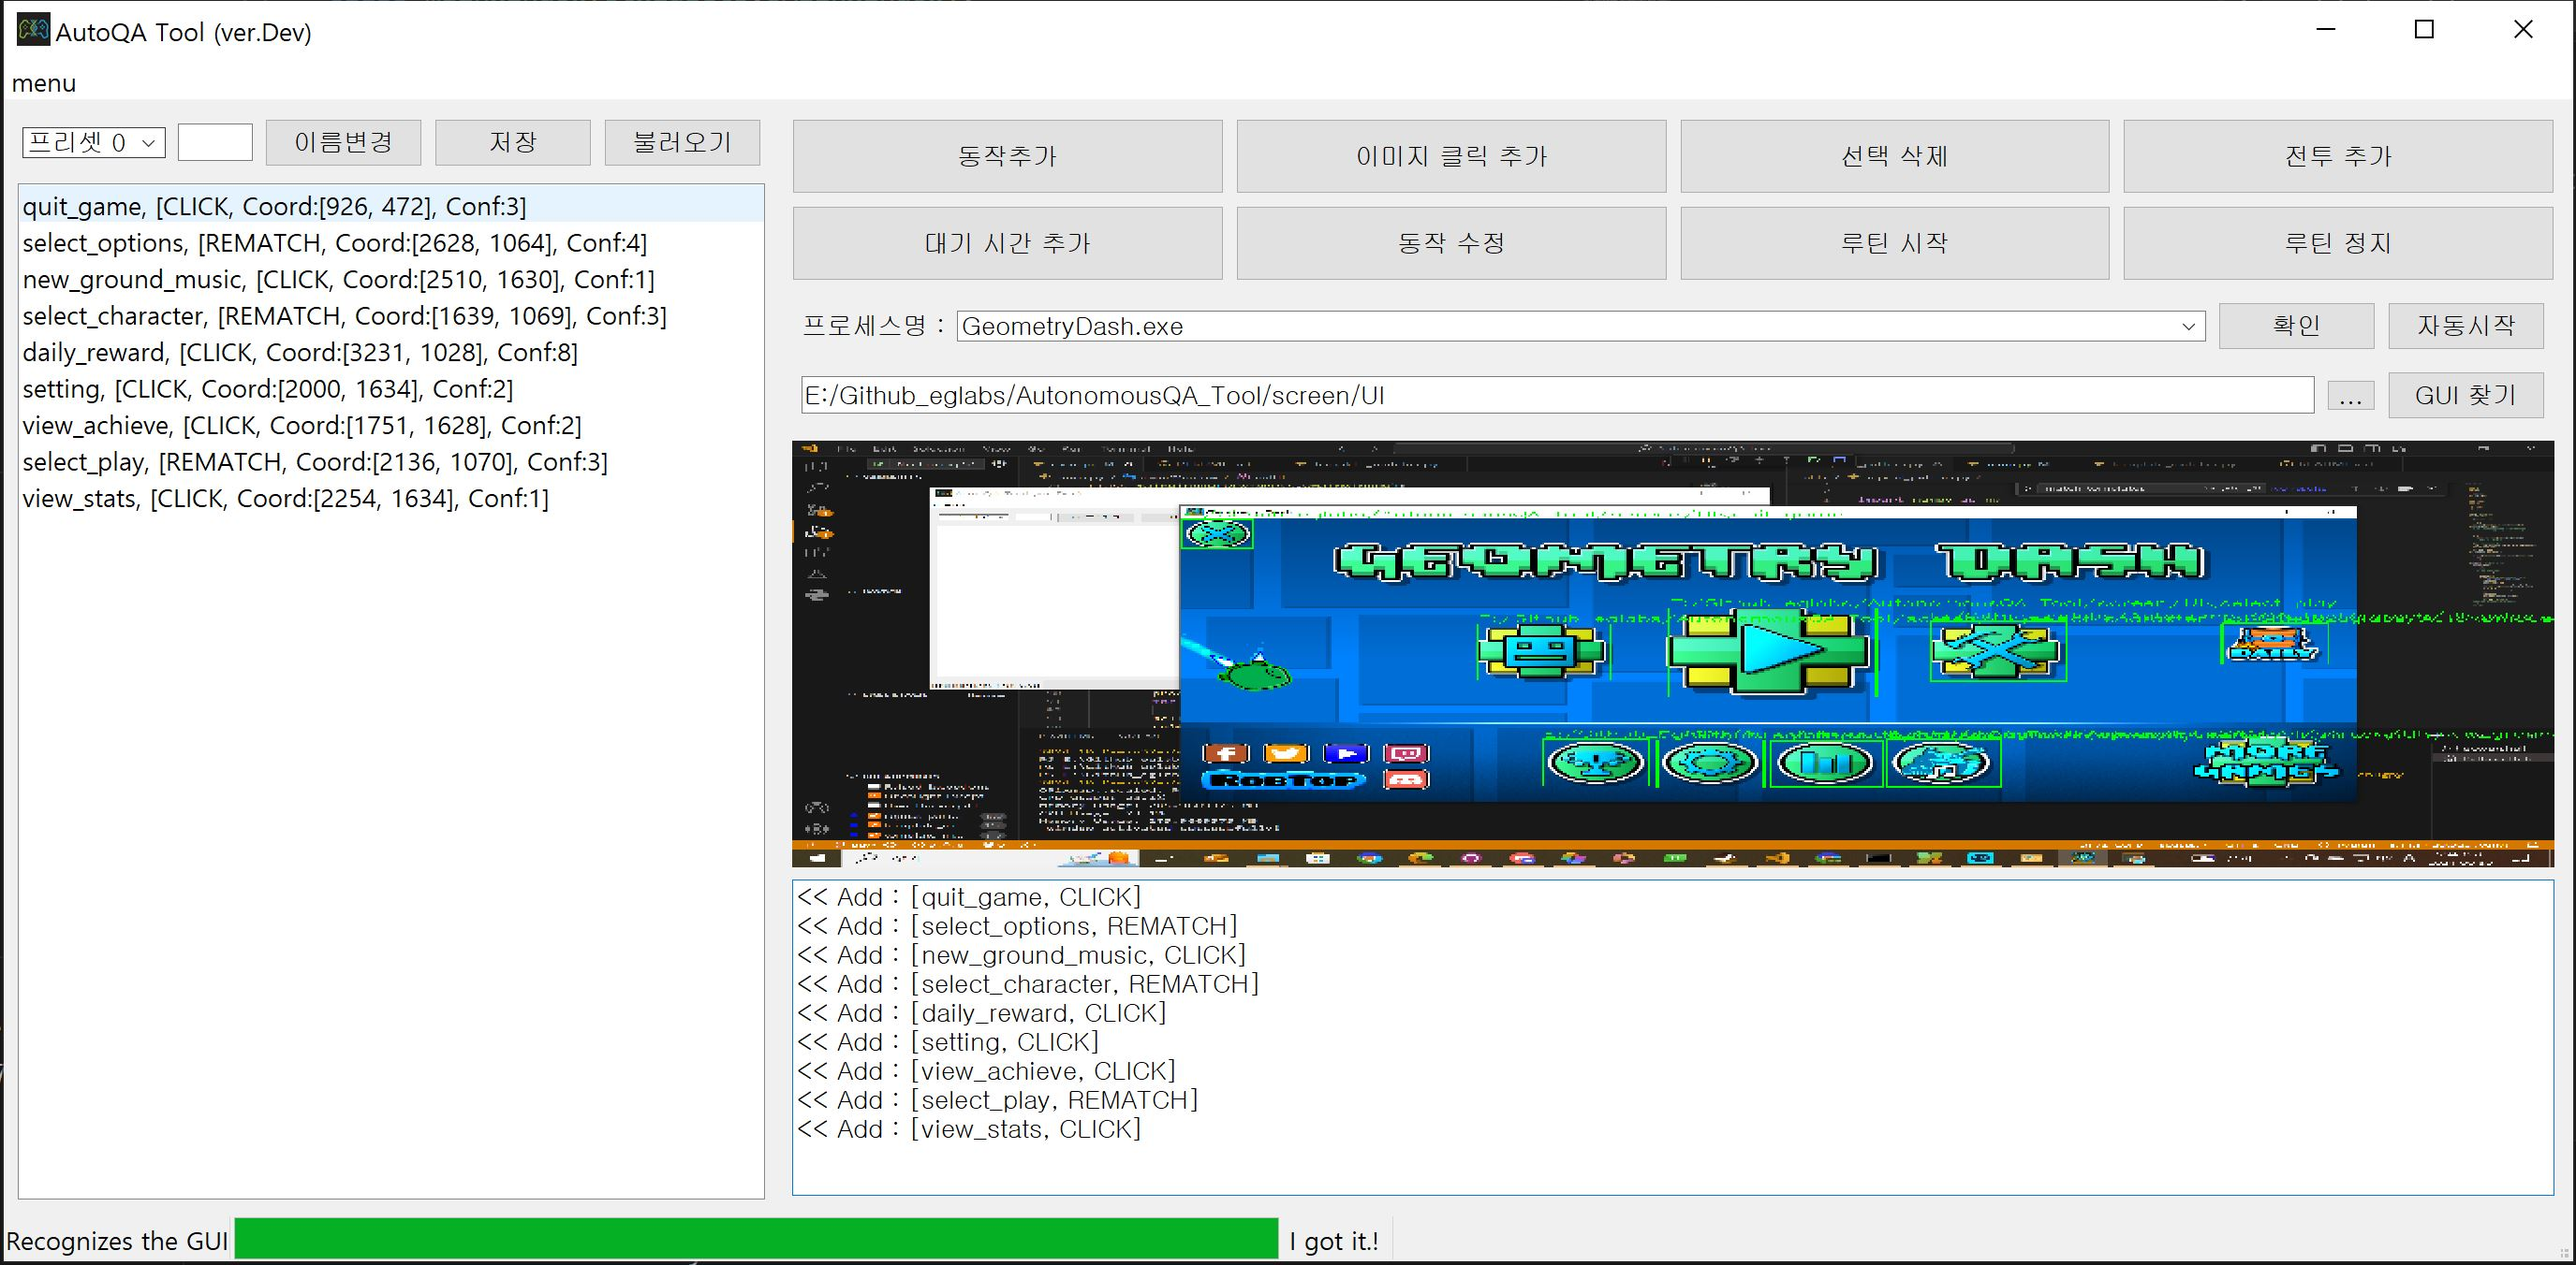
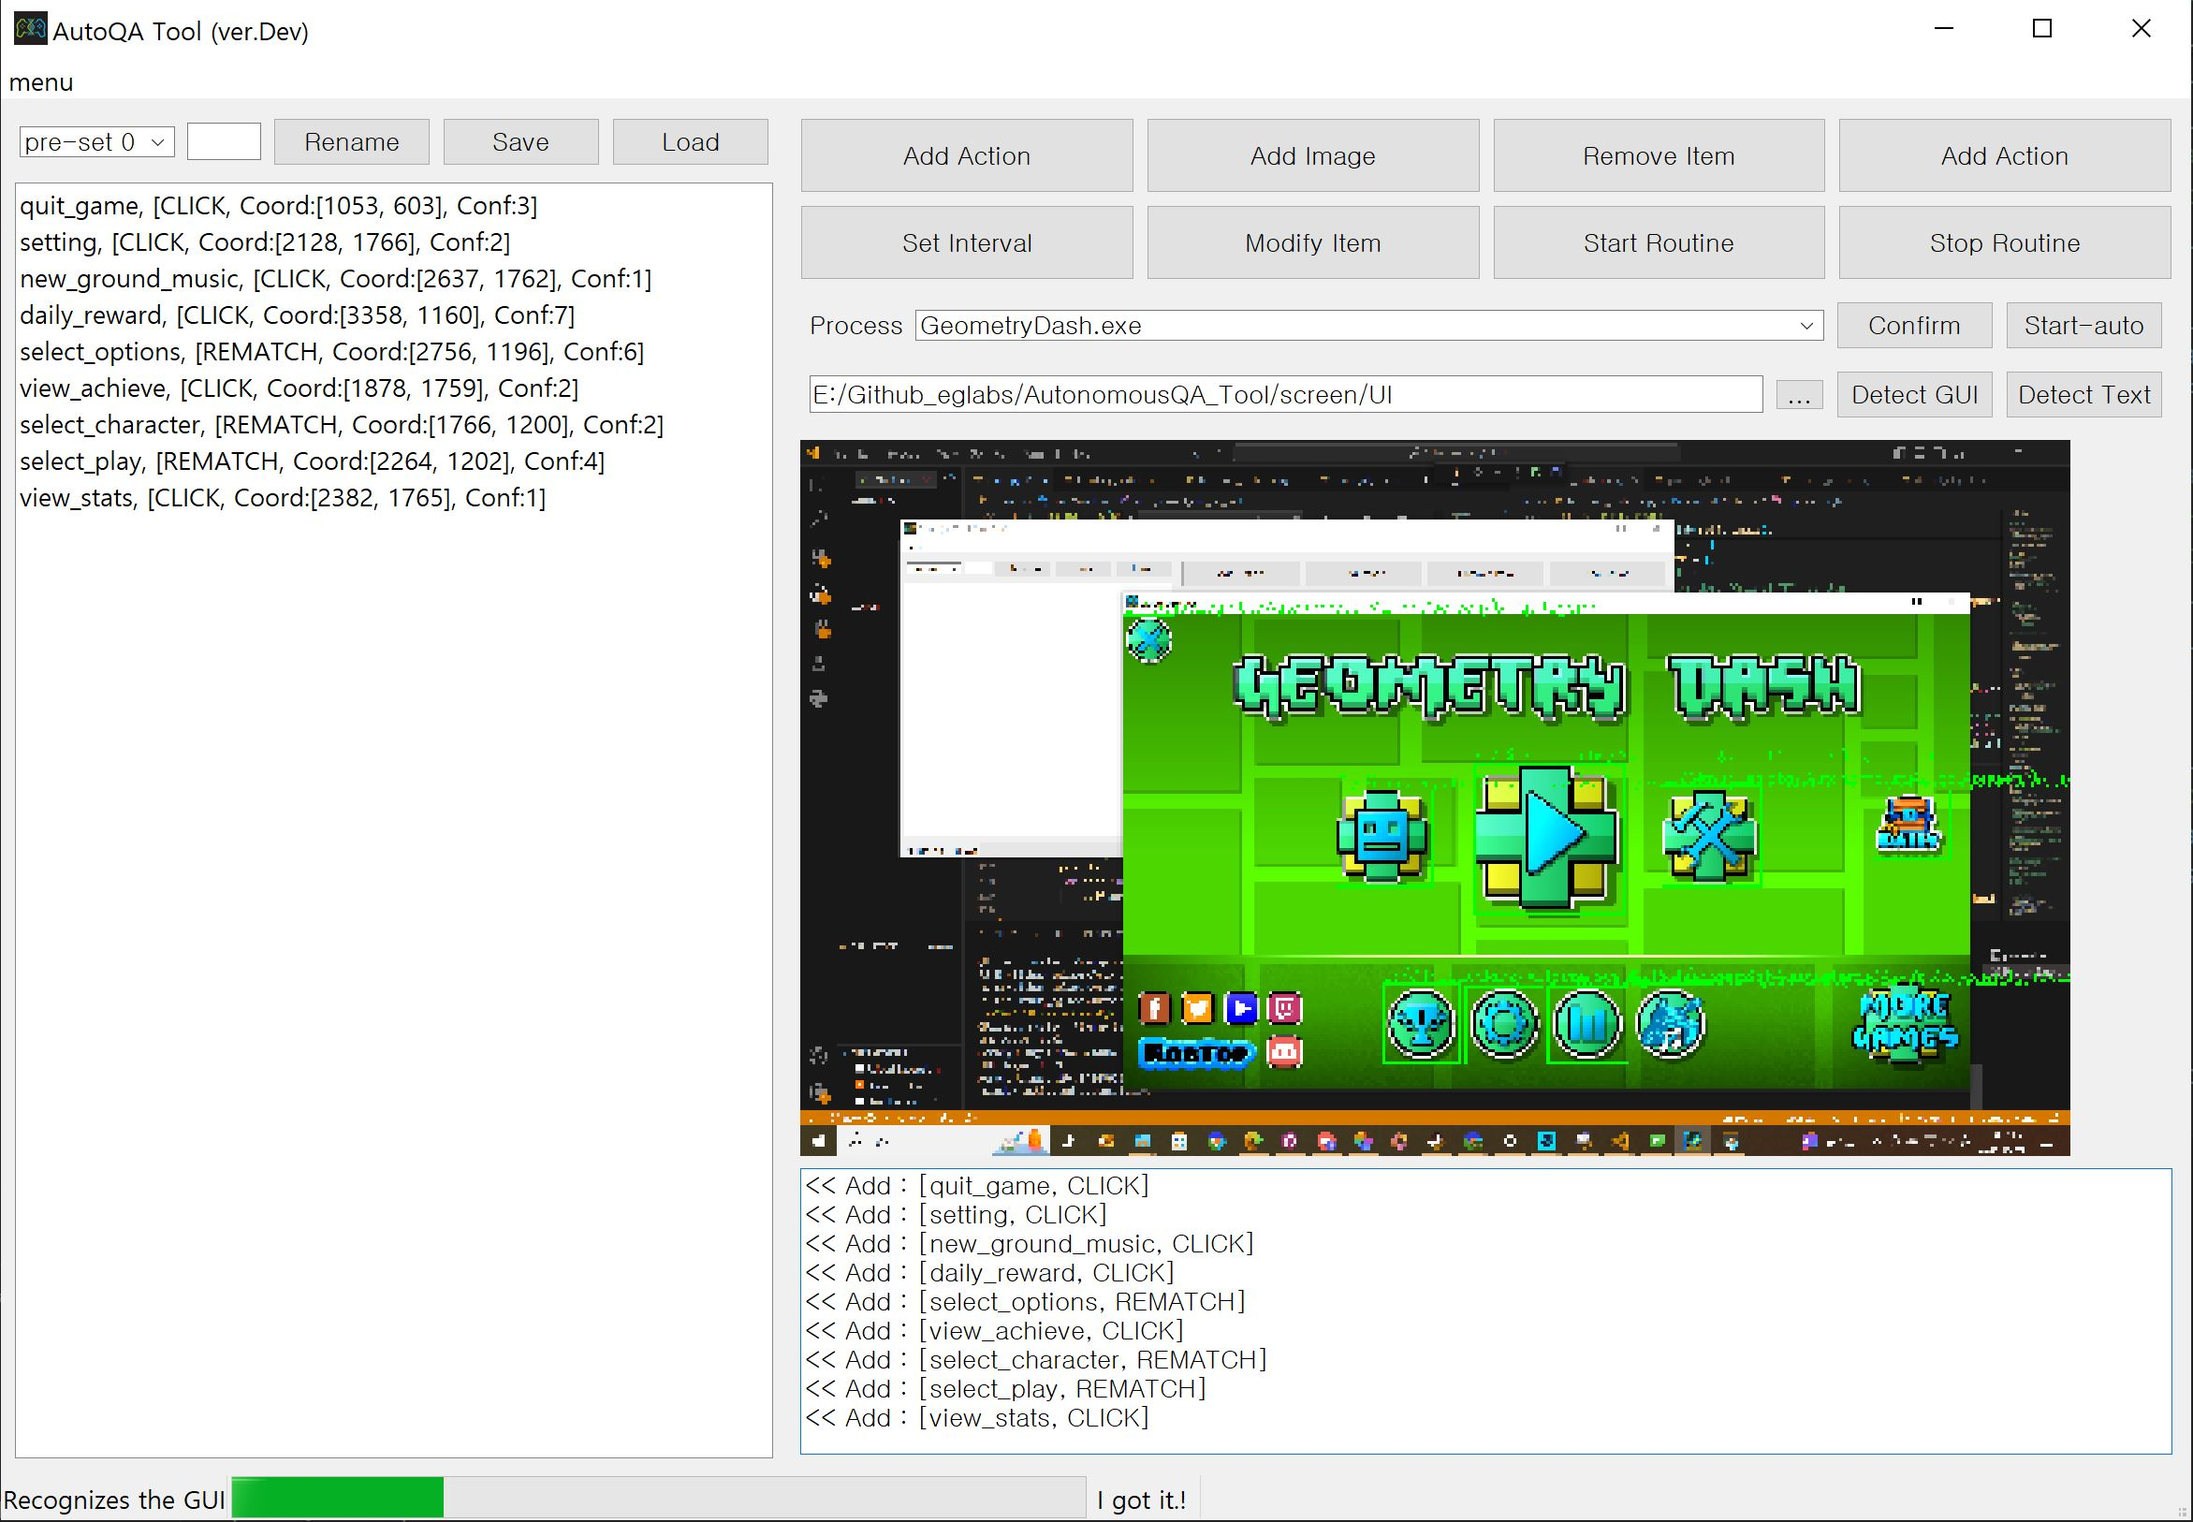
[Update] RAAI re-form

diff --git a/main.py b/main.py
@@ -99,7 +99,7 @@ class mainWindow(QtWidgets.QMainWindow):
         self.process_list.currentIndexChanged.connect(self.update_process_list)                
         self.handler.process_name = self.process_list.currentText()
         
-        self.preset_combo.addItems([f"프리셋 {i}" for i in range(0, 10)])  # 예시 프리셋 추가
+        self.preset_combo.addItems([f"pre-set {i}" for i in range(0, 10)])  # 예시 프리셋 추가
         self.preset_combo.currentIndexChanged.connect(self.update_preset)                
         self.log_text.setReadOnly(True)
 
@@ -140,7 +140,7 @@ class mainWindow(QtWidgets.QMainWindow):
             # actions = [self.action_sequence.item(i) for i in range(self.action_sequence.count())]
             items = [item.data(Qt.UserRole) for item in self.action_sequence.findItems("", Qt.MatchContains)]
             self.repeater.receive_items(items)
-            self.log_text.append("루틴이 시작되었습니다.")
+            self.log_text.append("Start The Routine")
             self.repeater.start()
             
             # 윈도우 창 최소화            
@@ -149,7 +149,7 @@ class mainWindow(QtWidgets.QMainWindow):
     def stop_routine(self):
         if self.repeater is not None and self.repeater.isRunning():
             self.repeater.stop()
-            self.log_text.append("루틴이 정지되었습니다.")
+            self.log_text.append("Stop The Routine")
             self.repeater.wait()
             self.showNormal()
 
@@ -205,7 +205,7 @@ class mainWindow(QtWidgets.QMainWindow):
         
         # folder_dir = 'screen/UI'
         if len(self.gui_img_files) < 1:
-            self.progress_bar.setFormat(f"경로 :'{self.gui_folder.text()}' 내에 이미지 파일이 없습니다.")
+            self.progress_bar.setFormat(f"Path :'{self.gui_folder.text()}' 내에 이미지 파일이 없습니다.")
             return
         
         # 윈도우 화면 전체 캡쳐
@@ -309,7 +309,7 @@ class mainWindow(QtWidgets.QMainWindow):
         q_img = QImage(frame_bytes, w, h, bytes_per_line, QImage.Format_RGB888)
 
         # Re-scale QImage to fit layout
-        resized_img = q_img.scaled(width,height)
+        resized_img = q_img.scaled(width,height,Qt.KeepAspectRatio)
         return QPixmap.fromImage(resized_img)
     
     def confirm_running_process(self): ##
@@ -318,7 +318,7 @@ class mainWindow(QtWidgets.QMainWindow):
         for proc in proc_lst:
             self.process_list.addItem(f"{proc['name']}")
         
-        msg = f"실행중인 프로세스를 다시 확인합니다."
+        msg = f"Re-check running processes"
         self.log_text.append(msg)    
         # cur_proc = self.process_list.currentText()
         # # msg = self.handler.connect_application_by_handler()
@@ -333,14 +333,14 @@ class mainWindow(QtWidgets.QMainWindow):
             item = QtWidgets.QListWidgetItem(f"{dialog.interval_line.text()} 초 대기")
             item.setData(Qt.UserRole, [ItemType.DELAY, [dialog.interval_line.text()]])
 
-            self.log_text.append(f"대기Action 추가 : {item.data(Qt.UserRole)}")
+            self.log_text.append(f"Add Action : {item.data(Qt.UserRole)}")
             self.action_sequence.addItem(item)
             
     def delete_cur_action(self):
         selectedRow = self.action_sequence.currentRow()
         if selectedRow != -1:
             selectedItem = self.action_sequence.item(selectedRow)
-            self.log_text.append(f"제거 : {selectedItem.text()}")
+            self.log_text.append(f"Remove Action : {selectedItem.text()}")
             self.action_sequence.takeItem(selectedRow)
     
     def add_actions(self):
@@ -350,13 +350,13 @@ class mainWindow(QtWidgets.QMainWindow):
 
         if result == QtWidgets.QDialog.Accepted:
             if dialog.input_toggle == 0:
-                item = QtWidgets.QListWidgetItem(f"좌표 클릭 ({dialog.mousePos[0]}, {dialog.mousePos[1]})")
+                item = QtWidgets.QListWidgetItem(f"Click Coordinate ({dialog.mousePos[0]}, {dialog.mousePos[1]})")
                 item.setData(Qt.UserRole, [ItemType.CLICK, dialog.mousePos])
-                self.log_text.append(f"클릭Action 추가 : ({item.data(Qt.UserRole)})")
+                self.log_text.append(f"Add Coordinate & Click : ({item.data(Qt.UserRole)})")
             elif dialog.input_toggle == 1:
-                item = QtWidgets.QListWidgetItem(f"키 입력 ({dialog.input_key.text()})")
+                item = QtWidgets.QListWidgetItem(f"Input Key ({dialog.input_key.text()})")
                 item.setData(Qt.UserRole, [ItemType.TYPING, [dialog.input_key.text()]])
-                self.log_text.append(f"키Action 추가 : ({item.data(Qt.UserRole)})")
+                self.log_text.append(f"Add Key : ({item.data(Qt.UserRole)})")
             self.action_sequence.addItem(item)
         
     def add_image(self):
@@ -365,10 +365,10 @@ class mainWindow(QtWidgets.QMainWindow):
         item = None
 
         if result == QtWidgets.QDialog.Accepted:
-            item = QtWidgets.QListWidgetItem(f"이미지 클릭 {os.path.basename(dialog._imgPath)}")
+            item = QtWidgets.QListWidgetItem(f"Select Image {os.path.basename(dialog._imgPath)}")
             item.setData(Qt.UserRole, [ItemType.REMATCH, [dialog._imgPath, dialog.confidence.value()]])
 
-            self.log_text.append(f"이미지클릭Action 추가{os.path.basename(dialog._imgPath)}, 유사도:{dialog.confidence.value()}")
+            self.log_text.append(f"Add Image{os.path.basename(dialog._imgPath)}, 유사도:{dialog.confidence.value()}")
             self.action_sequence.addItem(item)
 
     # Update Section
@@ -379,7 +379,7 @@ class mainWindow(QtWidgets.QMainWindow):
         
         for action in c_list:
             if action[0] == 0:
-                self.action_sequence.addItem(f"클릭 (x,y : {action[1][0]}, {action[1][1]})")
+                self.action_sequence.addItem(f"Click (x,y : {action[1][0]}, {action[1][1]})")
                 
     def update_process_list(self):
         msg = ""
@@ -418,7 +418,7 @@ class mainWindow(QtWidgets.QMainWindow):
             gui_dic[name] = ( score , mc_loc )
             self.gui_matchinfo.append(gui_dic)
       
-            msg = f"파일명 : {template_tuple[0]}, 좌표 : ( {mc_loc[0]} , {mc_loc[1]} )"
+            msg = f"File : {template_tuple[0]}, Coord : ( {mc_loc[0]} , {mc_loc[1]} )"
             # print(msg)
             self.log_text.append(msg)
     
